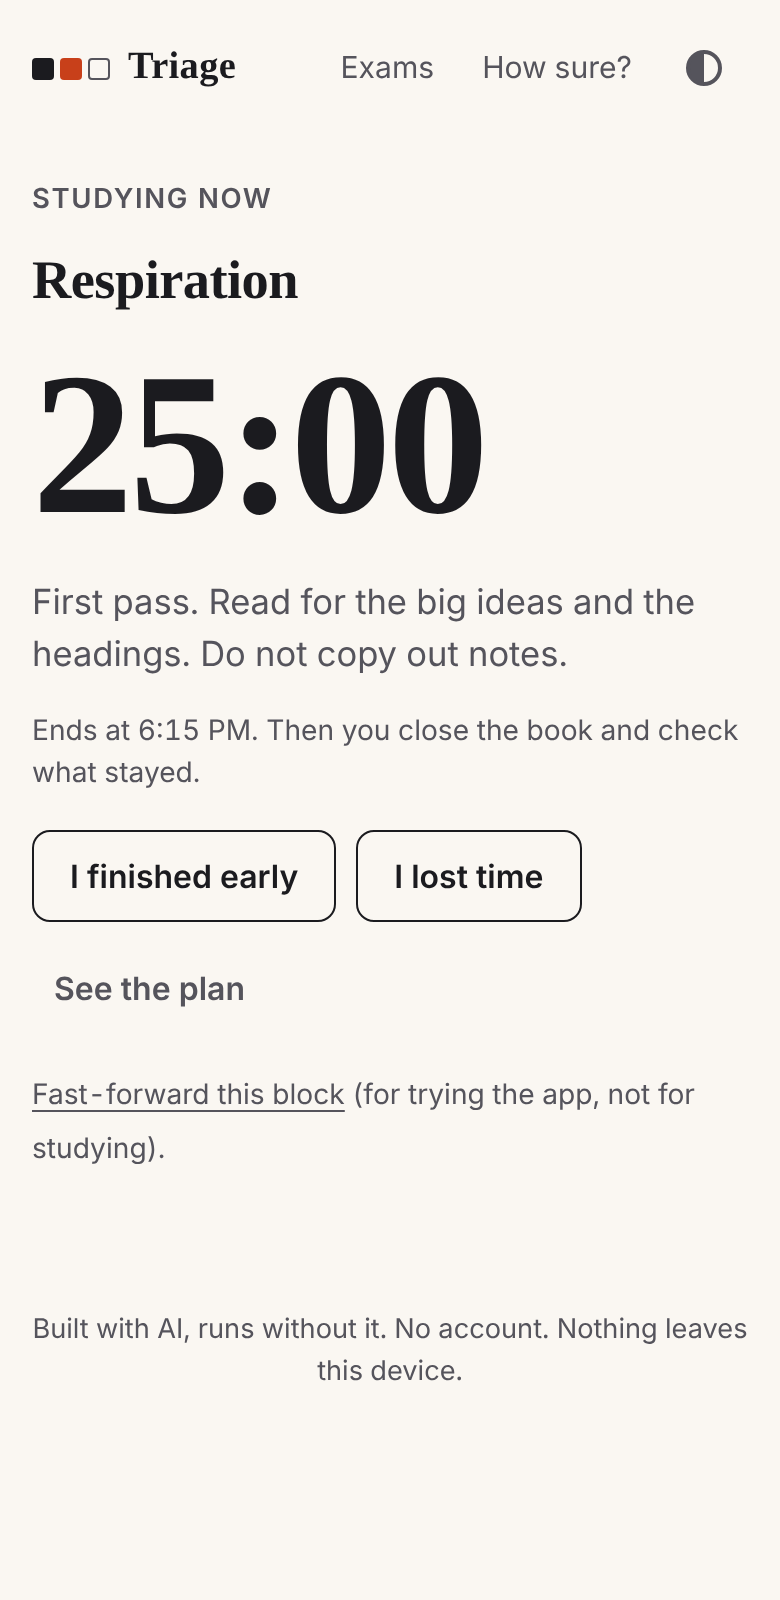
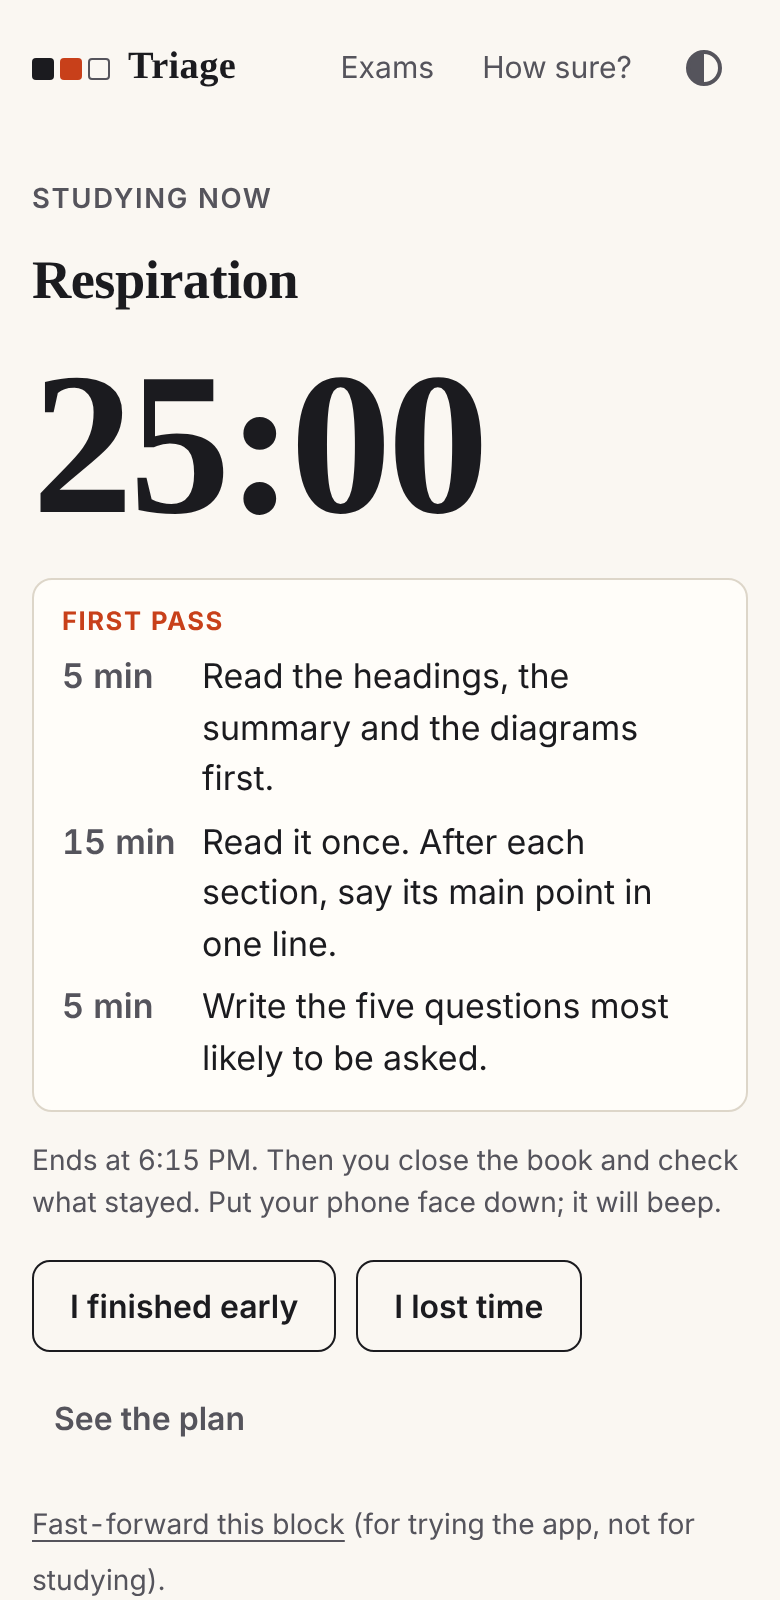
README: new features, test counts, one more source; refreshed screenshots
Claude-Session: https://claude.ai/code/session_014uuDQ89ZqzGa5uRrBn9SDF

diff --git a/README.md b/README.md
@@ -38,6 +38,8 @@ The **Marks Map** shows the whole plan in one picture. Every square is one mark 
 Other things it does:
 
 - **Closed-book check.** After each block you close the book, recall for a minute, and tap how much came back. That answer corrects the plan.
+- **What to do in a block.** Each block shows three steps, chosen from how well you know the chapter: a first pass, practice questions, or polishing the parts you still get wrong.
+- **Off the phone.** Copy the plan as text or print it, so the phone can stay face down while you study.
 - **Beat the plan.** Move the blocks around yourself. The forecast updates live.
 - **Pin and drop.** Pin a chapter your teacher said is coming; drop one that is not in your exam. A pin shows what it costs.
 - **Class link.** The chapter list travels inside a link, so one person sets up the exam and the class opens it. The link never carries anyone's answers.
@@ -107,12 +109,12 @@ python3 -m http.server 8080     # or any static file server
 Tests (Node 22 or newer):
 
 ```
-npm test                 # 93 unit tests: engine, time, paste, storage, model
+npm test                 # 96 unit tests: engine, time, paste, storage, model
 node tests/robustness.js # the simulation table above
-node tests/e2e/run.mjs   # 24 browser tests, needs Playwright
+node tests/e2e/run.mjs   # 30 browser tests, needs Playwright
 ```
 
-The browser tests drive a real browser with a controlled clock: a full setup, a study block, the closed-book check, the sleep floor, the class link, offline use, and a check that no request ever leaves the app's own origin.
+The browser tests drive a real browser with a controlled clock: a full setup, a study block, the closed-book check, the sleep floor, a daytime exam, the class link, offline use, a browser that blocks storage, keyboard focus, and a check that no request ever leaves the app's own origin.
 
 ```
 index.html
@@ -142,6 +144,7 @@ Earlier work: the author's personal assistant "Taz OS" (1–2 October 2026) had 
 
 - Roediger, H. L., & Karpicke, J. D. (2006). Test-enhanced learning: Taking memory tests improves long-term retention. *Psychological Science*. Recalling without the book improved retention days later compared with rereading. Triage uses the closed-book check mainly as an honest measure of what stuck.
 - Newbury, C. R., Crowley, R., Rastle, K., & Tamminen, J. (2021). Sleep deprivation and memory: Meta-analytic reviews of studies on sleep deprivation before and after learning. *Psychological Bulletin*. Losing sleep after learning harms memory for what was learned.
+- Dunlosky, J., Rawson, K. A., Marsh, E. J., Nathan, M. J., & Willingham, D. T. (2013). Improving students' learning with effective learning techniques. *Psychological Science in the Public Interest*. Practice testing rated among the most useful techniques; rereading and highlighting among the least. The three steps shown in each block follow that.
 - Paruthi, S., et al. (2016). Recommended amount of sleep for pediatric populations: A consensus statement of the American Academy of Sleep Medicine. *Journal of Clinical Sleep Medicine*. Teenagers are advised 8 to 10 hours; Triage defaults to 8 and never plans under 6.
 
 ## Licence
